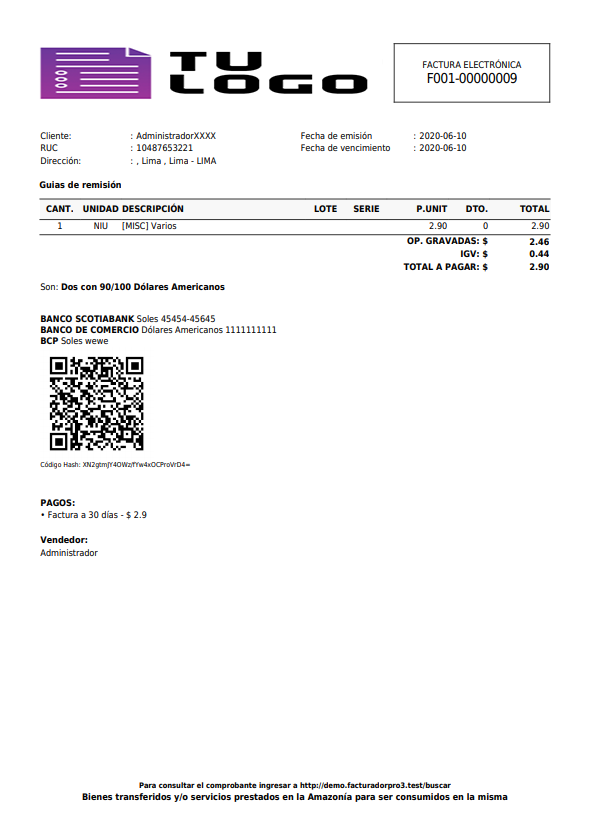
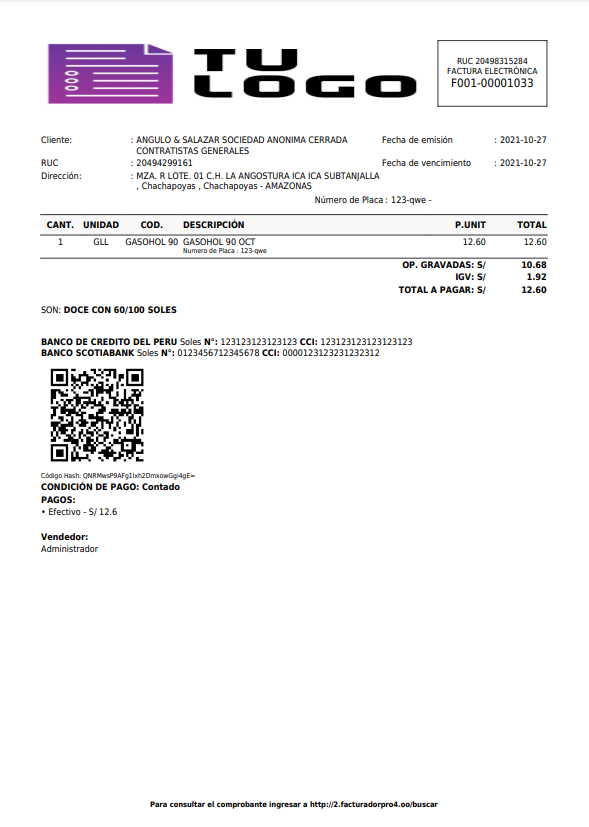
feature | #1073 | añadiendo metodos y condicion de pago segun plantilla default a plantilla header_image_full_width

Changed region(s): [[0.0611, 0.0302, 0.9474, 0.6651], [0.1222, 0.9371, 0.8557, 0.9976]]

diff --git a/resources/js/views/tenant/pos/partials/form.vue b/resources/js/views/tenant/pos/partials/form.vue
@@ -3,12 +3,12 @@
         <form autocomplete="off" @submit.prevent="submit">
             <div class="form-body">
                 <div class="row">
-                    <div class="col-md-12">  
+                    <div class="col-md-12">
                         <el-tabs v-model="activeName"   type="card">
                             <el-tab-pane label="General" name="first">
 
 
-                                    <div class="row"> 
+                                    <div class="row">
                                         <div class="col-md-3">
                                             <div class="form-group" >
                                                 <label class="control-label">Imágen <span class="text-danger"></span></label>
@@ -21,13 +21,13 @@
                                                     <img v-if="form.image_url" :src="form.image_url" class="avatar">
                                                     <i v-else class="el-icon-plus avatar-uploader-icon"></i>
                                                 </el-upload>
-                                            </div> 
+                                            </div>
                                         </div>
 
-                                        <div class="col-md-9"> 
+                                        <div class="col-md-9">
                                             <div class="row">
 
-                                                <!-- <div class="short-div col-md-6"> 
+                                                <!-- <div class="short-div col-md-6">
                                                     <div class="form-group" :class="{'has-danger': errors.name}">
                                                         <label class="control-label">Nombre <span class="text-danger">*</span></label>
                                                         <el-input v-model="form.name" dusk="name"></el-input>
@@ -35,7 +35,7 @@
                                                     </div>
                                                 </div> -->
 
-                                                <div class="short-div col-md-6"> 
+                                                <div class="short-div col-md-6">
                                                     <div class="form-group" :class="{'has-danger': errors.description}">
                                                         <label class="control-label">Nombre<span class="text-danger">*</span></label>
                                                         <el-input v-model="form.description" dusk="description"></el-input>
@@ -43,7 +43,7 @@
                                                     </div>
                                                 </div>
 
-                                                <div class="short-div col-md-6"> 
+                                                <div class="short-div col-md-6">
                                                     <div class="form-group" :class="{'has-danger': errors.second_name}">
                                                         <label class="control-label">Nombre secundario</label>
                                                         <el-input v-model="form.second_name" dusk="second_name"></el-input>
@@ -51,7 +51,7 @@
                                                     </div>
                                                 </div>
 
-                                                <!-- <div class="short-div col-md-8"> 
+                                                <!-- <div class="short-div col-md-8">
                                                     <div class="form-group" :class="{'has-danger': errors.description}">
                                                         <label class="control-label">Descripción <span class="text-danger">*</span></label>
                                                         <el-input v-model="form.description" dusk="description"></el-input>
@@ -59,8 +59,8 @@
                                                     </div>
                                                 </div> -->
 
-                                                
-                                                <div class="short-div col-md-8"> 
+
+                                                <div class="short-div col-md-8">
                                                     <div class="form-group" :class="{'has-danger': errors.name}">
                                                         <label class="control-label">Descripción</label>
                                                         <el-input v-model="form.name" dusk="name"></el-input>
@@ -116,21 +116,21 @@
                                                     </div>
                                                 </div>
                                             </div>
-                                        </div> 
+                                        </div>
                                     </div>
 
-                                
-  
-
-                            </el-tab-pane> 
 
 
 
-                            <el-tab-pane label="Precio" name="second"> 
+                            </el-tab-pane>
+
+
+
+                            <el-tab-pane label="Precio" name="second">
 
                                 <div class="row">
 
-                                    
+
                                     <div class="col-md-4">
                                         <div class="form-group" :class="{'has-danger': errors.sale_unit_price}">
                                             <label class="control-label">Precio Unitario (Venta) <span class="text-danger">*</span></label>
@@ -167,7 +167,7 @@
                                             <el-checkbox v-model="form.has_igv">Incluye Igv</el-checkbox><br>
                                             <small class="form-control-feedback" v-if="errors.has_igv" v-text="errors.has_igv[0]"></small>
                                         </div>
-                                    </div>   
+                                    </div>
 
                                     <div class="col-md-4 center-el-checkbox mt-3">
                                         <div class="form-group" :class="{'has-danger': errors.has_plastic_bag_taxes}">
@@ -175,9 +175,9 @@
                                             <small class="form-control-feedback" v-if="errors.has_plastic_bag_taxes" v-text="errors.has_plastic_bag_taxes[0]"></small>
                                         </div>
                                     </div>
-                                    
-                                    
-                                       
+
+
+
 
                                     <div class="col-md-12">
                                         <h5 class="separator-title">Campos adicionales</h5>
@@ -204,15 +204,15 @@
                                             <el-input v-model="form.percentage_of_profit" @input="calculatePercentageOfProfitByPercentage"></el-input>
                                             <small class="form-control-feedback" v-if="errors.percentage_of_profit" v-text="errors.percentage_of_profit[0]"></small>
                                         </div>
-                                    </div>   
-                                    
-                                                              
-                                </div>
-                            </el-tab-pane>    
+                                    </div>
 
-                            <el-tab-pane label="UNSPSC" name="third"> 
+
+                                </div>
+                            </el-tab-pane>
+
+                            <el-tab-pane label="UNSPSC" name="third">
                                 <div class="row">
-                                    
+
                                     <div class="col-md-4">
                                         <div class="form-group" :class="{'has-danger': errors.item_code}">
                                             <label class="control-label">Código Sunat
@@ -225,16 +225,16 @@
                                         </div>
                                     </div>
                                 </div>
-                                    
-                            </el-tab-pane>    
+
+                            </el-tab-pane>
 
                         </el-tabs>
-                    </div> 
+                    </div>
 
-                     
-                </div>   
-                    
-                    
+
+                </div>
+
+
             </div>
             <div class="form-actions text-right mt-4">
                 <el-button @click.prevent="close()">Cancelar</el-button>
@@ -242,7 +242,7 @@
             </div>
         </form>
     </el-dialog>
-</template> 
+</template>
 <script>
 
     export default {
@@ -276,10 +276,10 @@
             }
         },
         async created() {
-            
+
             await this.initForm()
             await this.$http.get(`/${this.resource}/tables`)
-                .then(response => { 
+                .then(response => {
 
                     this.unit_types = response.data.unit_types
                     this.currency_types = response.data.currency_types
@@ -291,7 +291,7 @@
                     this.form.purchase_affectation_igv_type_id = (this.affectation_igv_types.length > 0)?this.affectation_igv_types[0].id:null
                 })
         },
-        methods: { 
+        methods: {
             onSuccess(response, file, fileList) {
                 if (response.success) {
                     this.form.image = response.data.filename
@@ -300,7 +300,7 @@
                 } else {
                     this.$message.error(response.message)
                 }
-            },   
+            },
             initForm() {
                 this.loading_submit = false,
                 this.errors = {}

diff --git a/app/CoreFacturalo/Templates/pdf/header_image_full_width/invoice_a4.blade.php b/app/CoreFacturalo/Templates/pdf/header_image_full_width/invoice_a4.blade.php
@@ -118,13 +118,13 @@
 <table class="full-width mt-5">
 
     <tr>
-        <td width="120px">Cliente:</td>
-        <td width="8px">:</td>
+        <td width="120px" style="text-align: top; vertical-align: top;">Cliente:</td>
+        <td width="8px" style="text-align: top; vertical-align: top;">:</td>
         <td>{{ $customer->name }}</td>
 
-        <td width="120px">Fecha de emisión</td>
-        <td width="8px">:</td>
-        <td>{{$document->date_of_issue->format('Y-m-d')}}</td>
+        <td width="120px" style="text-align: top; vertical-align: top;">Fecha de emisión</td>
+        <td width="8px" style="text-align: top; vertical-align: top;">:</td>
+        <td style="text-align: top; vertical-align: top;">{{$document->date_of_issue->format('Y-m-d')}}</td>
 
 
     </tr>
@@ -134,16 +134,16 @@
         <td>{{$customer->number}}</td>
 
         @if($invoice)
-            <td width="150px">Fecha de vencimiento</td>
-            <td width="8px">:</td>
-            <td>{{$invoice->date_of_due->format('Y-m-d')}}</td>
+            <td width="150px" style="text-align: top; vertical-align: top;">Fecha de vencimiento</td>
+            <td width="8px" style="text-align: top; vertical-align: top;">:</td>
+            <td style="text-align: top; vertical-align: top;">{{$invoice->date_of_due->format('Y-m-d')}}</td>
         @endif
 
     </tr>
     @if ($customer->address !== '')
     <tr>
         <td class="align-top">Dirección:</td>
-        <td>:</td>
+        <td style="text-align: top; vertical-align: top;">:</td>
         <td>
             {{ $customer->address }}
             {{ ($customer->district_id !== '-')? ', '.$customer->district->description : '' }}
@@ -233,21 +233,48 @@
 @endif
 
 
-
-@if ($document->reference_guides)
-<br/>
-<strong>Guias de remisión</strong>
-<table>
-    @foreach($document->reference_guides as $guide)
-        <tr>
-            <td>{{ $guide->series }}</td>
-            <td>-</td>
-            <td>{{ $guide->number }}</td>
-        </tr>
-    @endforeach
+<table class="full-width">
+    <tr>
+    <td width="50%">
+        @if ($document->reference_guides)
+            @if (count($document->reference_guides) > 0)
+            <br/>
+            Guias de remisión
+            <table>
+                @foreach($document->reference_guides as $guide)
+                    <tr>
+                        <td>{{ $guide->series }}</td>
+                        <td>-</td>
+                        <td>{{ $guide->number }}</td>
+                    </tr>
+                @endforeach
+            </table>
+            @else
+                <br>
+            @endif
+        @endif
+    </td>
+    <td width="50%">
+        <table>
+            <tr>
+                <td width="120px" style="text-align: right">Número de Placa</td>
+                <td width="8px">:</td>
+                <td>
+                    @foreach($document->items as $row)
+                        @if($row->attributes)
+                            @foreach($row->attributes as $attr)
+                                @if($attr->description == "Numero de Placa")
+                                    {{ $attr->value }} -
+                                @endif
+                            @endforeach
+                        @endif
+                    @endforeach
+                </td>
+            </tr>
+        </table>
+    </td>
+    </tr>
 </table>
-@endif
-
 
 <table class="full-width mt-3">
     @if ($document->prepayments)
@@ -579,25 +606,51 @@
         </td>
     </tr>
 </table>
-@if($payments->count())
+@php
+    $paymentCondition = \App\CoreFacturalo\Helpers\Template\TemplateHelper::getDocumentPaymentCondition($document);
+@endphp
+{{-- Condicion de pago  Crédito / Contado --}}
+<table class="full-width">
+    <tr>
+        <td>
+            <strong>CONDICIÓN DE PAGO: {{ $paymentCondition }} </strong>
+        </td>
+    </tr>
+</table>
 
-
-    <table class="full-width mt-5">
+@if($document->payment_method_type_id)
+    <table class="full-width">
         <tr>
             <td>
-                <strong>PAGOS:</strong>
+                <strong>MÉTODO DE PAGO: </strong>{{ $document->payment_method_type->description }}
             </td>
         </tr>
-            @php
-                $payment = 0;
-            @endphp
-            @foreach($payments as $row)
+    </table>
+@endif
+
+@if ($document->payment_condition_id === '01')
+    @if($payments->count())
+        <table class="full-width">
+            <tr>
+                <td><strong>PAGOS:</strong></td>
+            </tr>
+                @php $payment = 0; @endphp
+                @foreach($payments as $row)
+                    <tr>
+                        <td>&#8226; {{ $row->payment_method_type->description }} - {{ $row->reference ? $row->reference.' - ':'' }} {{ $document->currency_type->symbol }} {{ $row->payment + $row->change }}</td>
+                    </tr>
+                @endforeach
+            </tr>
+        </table>
+    @endif
+@else
+    <table class="full-width">
+            @foreach($document->fee as $key => $quote)
                 <tr>
-                    <td>&#8226; {{ $row->payment_method_type->description }} - {{ $row->reference ? $row->reference.' - ':'' }} {{ $document->currency_type->symbol }} {{ $row->payment + $row->change }}</td>
+                    <td>&#8226; {{ (empty($quote->getStringPaymentMethodType()) ? 'Cuota #'.( $key + 1) : $quote->getStringPaymentMethodType()) }} / Fecha: {{ $quote->date->format('d-m-Y') }} / Monto: {{ $quote->currency_type->symbol }}{{ $quote->amount }}</td>
                 </tr>
             @endforeach
         </tr>
-
     </table>
 @endif
 
